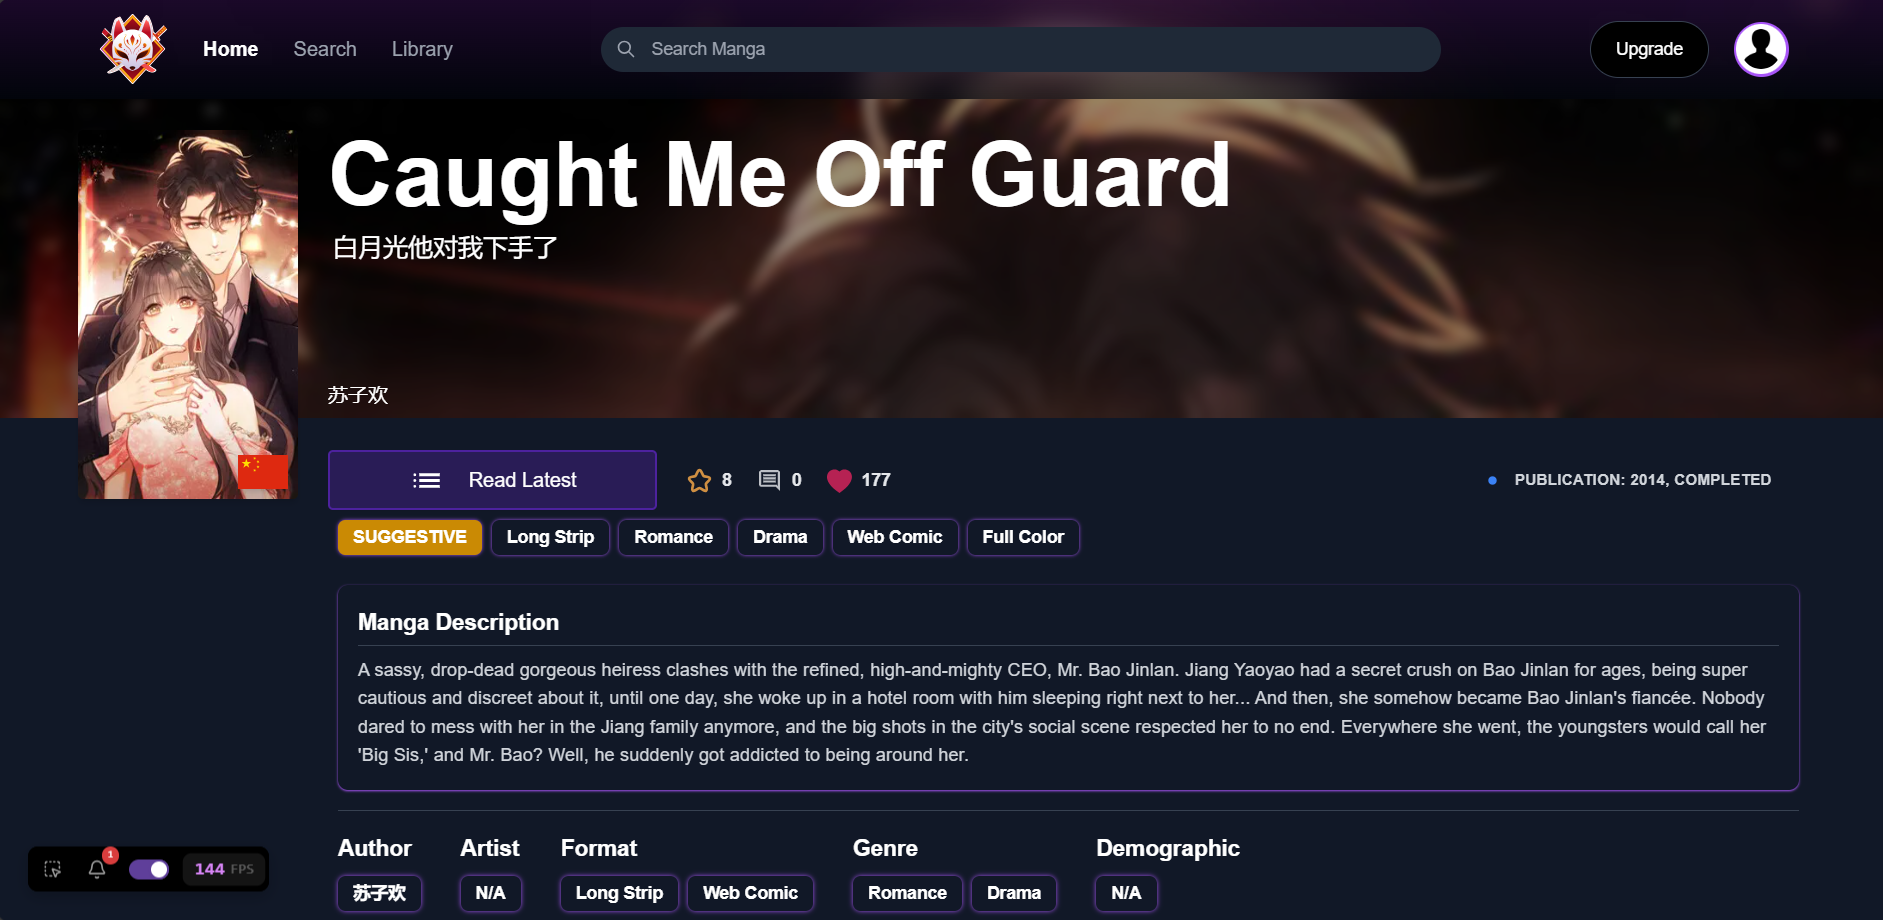
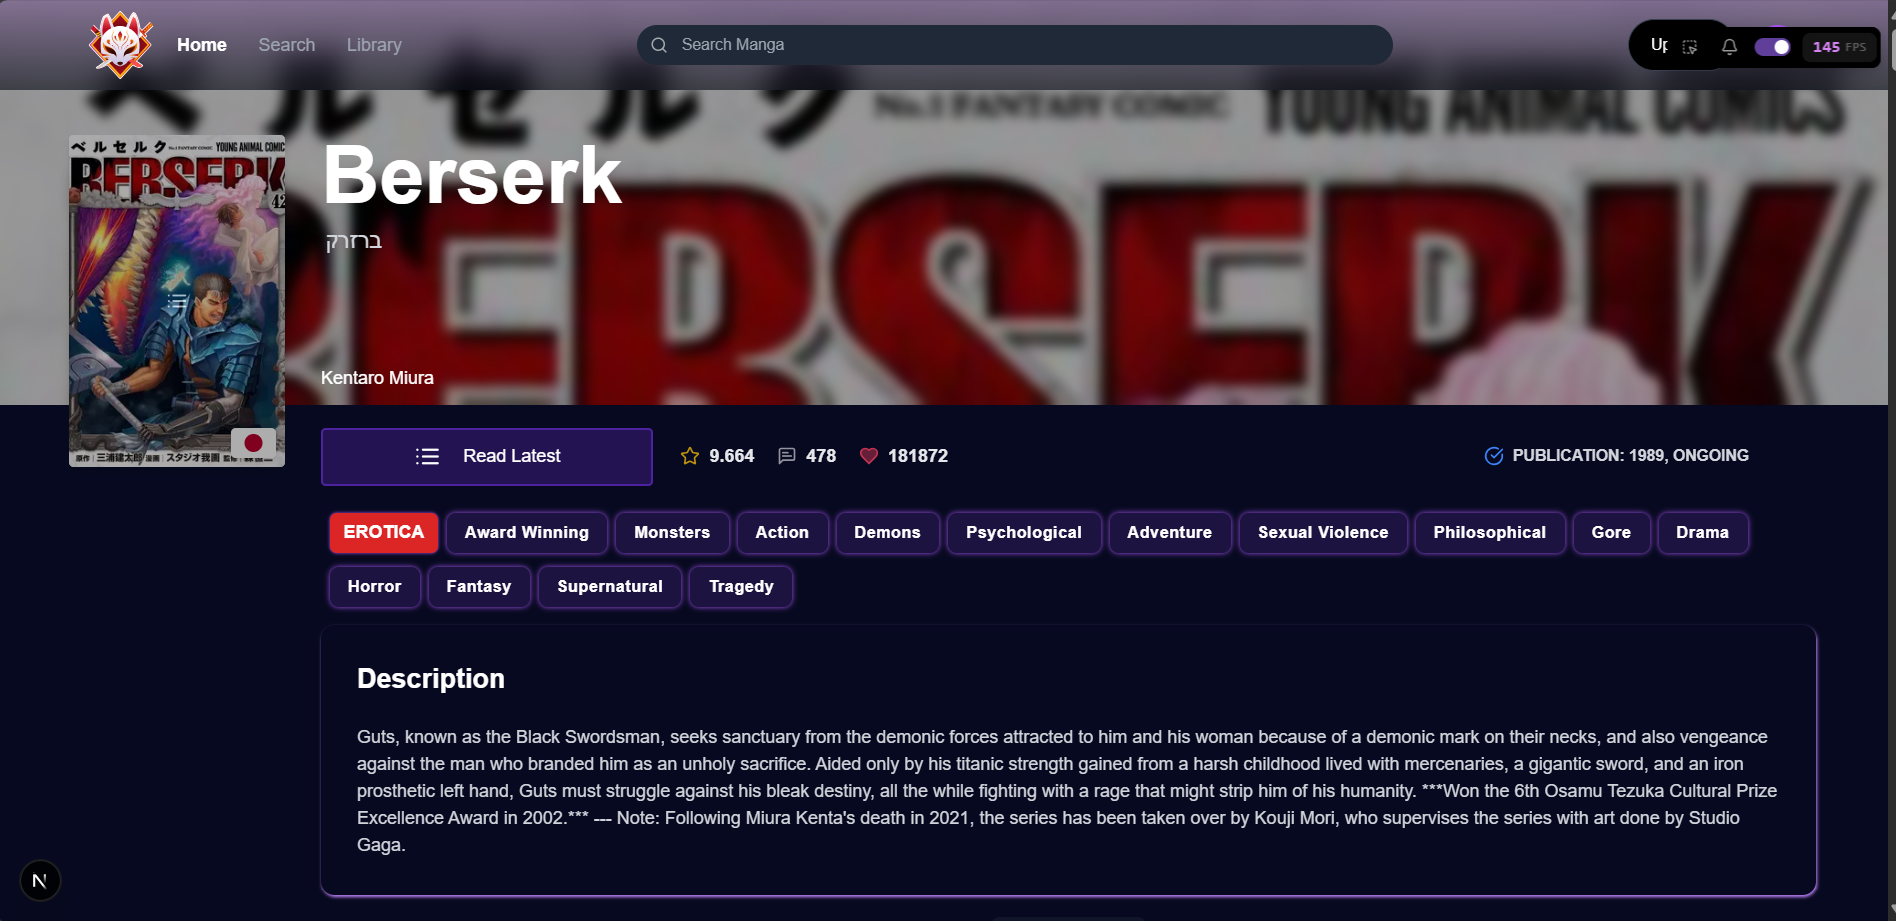
forgot to update the laptop version demo image of AboutManga component of MangaChapters

diff --git a/app/Components/ChaptersListComponents/AboutManga.jsx b/app/Components/ChaptersListComponents/AboutManga.jsx
@@ -150,9 +150,9 @@ const AboutManga = ({ manga, handleChapterClick, last }) => {
               </div>
             <div className={`flex flex-col gap-4 sm:gap-2`}>
               {/* Tags and Rating */}
-              <div className={`mt-2  ${isExpanded?"flex sm:flex ":"hidden sm:flex "} sm:mt-3 sm:mx-2 flex-wrap gap-2 justify-center sm:justify-start`}>
+              <div className={`mt-2 space-y-1 ${isExpanded?"flex sm:flex ":"hidden sm:flex "} sm:mt-3 sm:mx-2 flex-wrap gap-2 justify-center sm:justify-start`}>
                 <span
-                  className={`rounded-md px-2 sm:px-3 py-1 text-xs sm:text-base font-semibold text-white shadow-[0_0_3px_rgba(0,0,0,1)] shadow-purple-500 hover:scale-105 transition-transform duration-150 ${getRatingColor(
+                  className={`rounded-md h-fit mt-1 px-2 sm:px-3 py-1.5 text-xs sm:text-base font-semibold text-white shadow-[0_0_3px_rgba(0,0,0,1)] shadow-purple-500 hover:scale-105 transition-transform duration-150 ${getRatingColor(
                     manga.contentRating
                   )}`}
                 >
